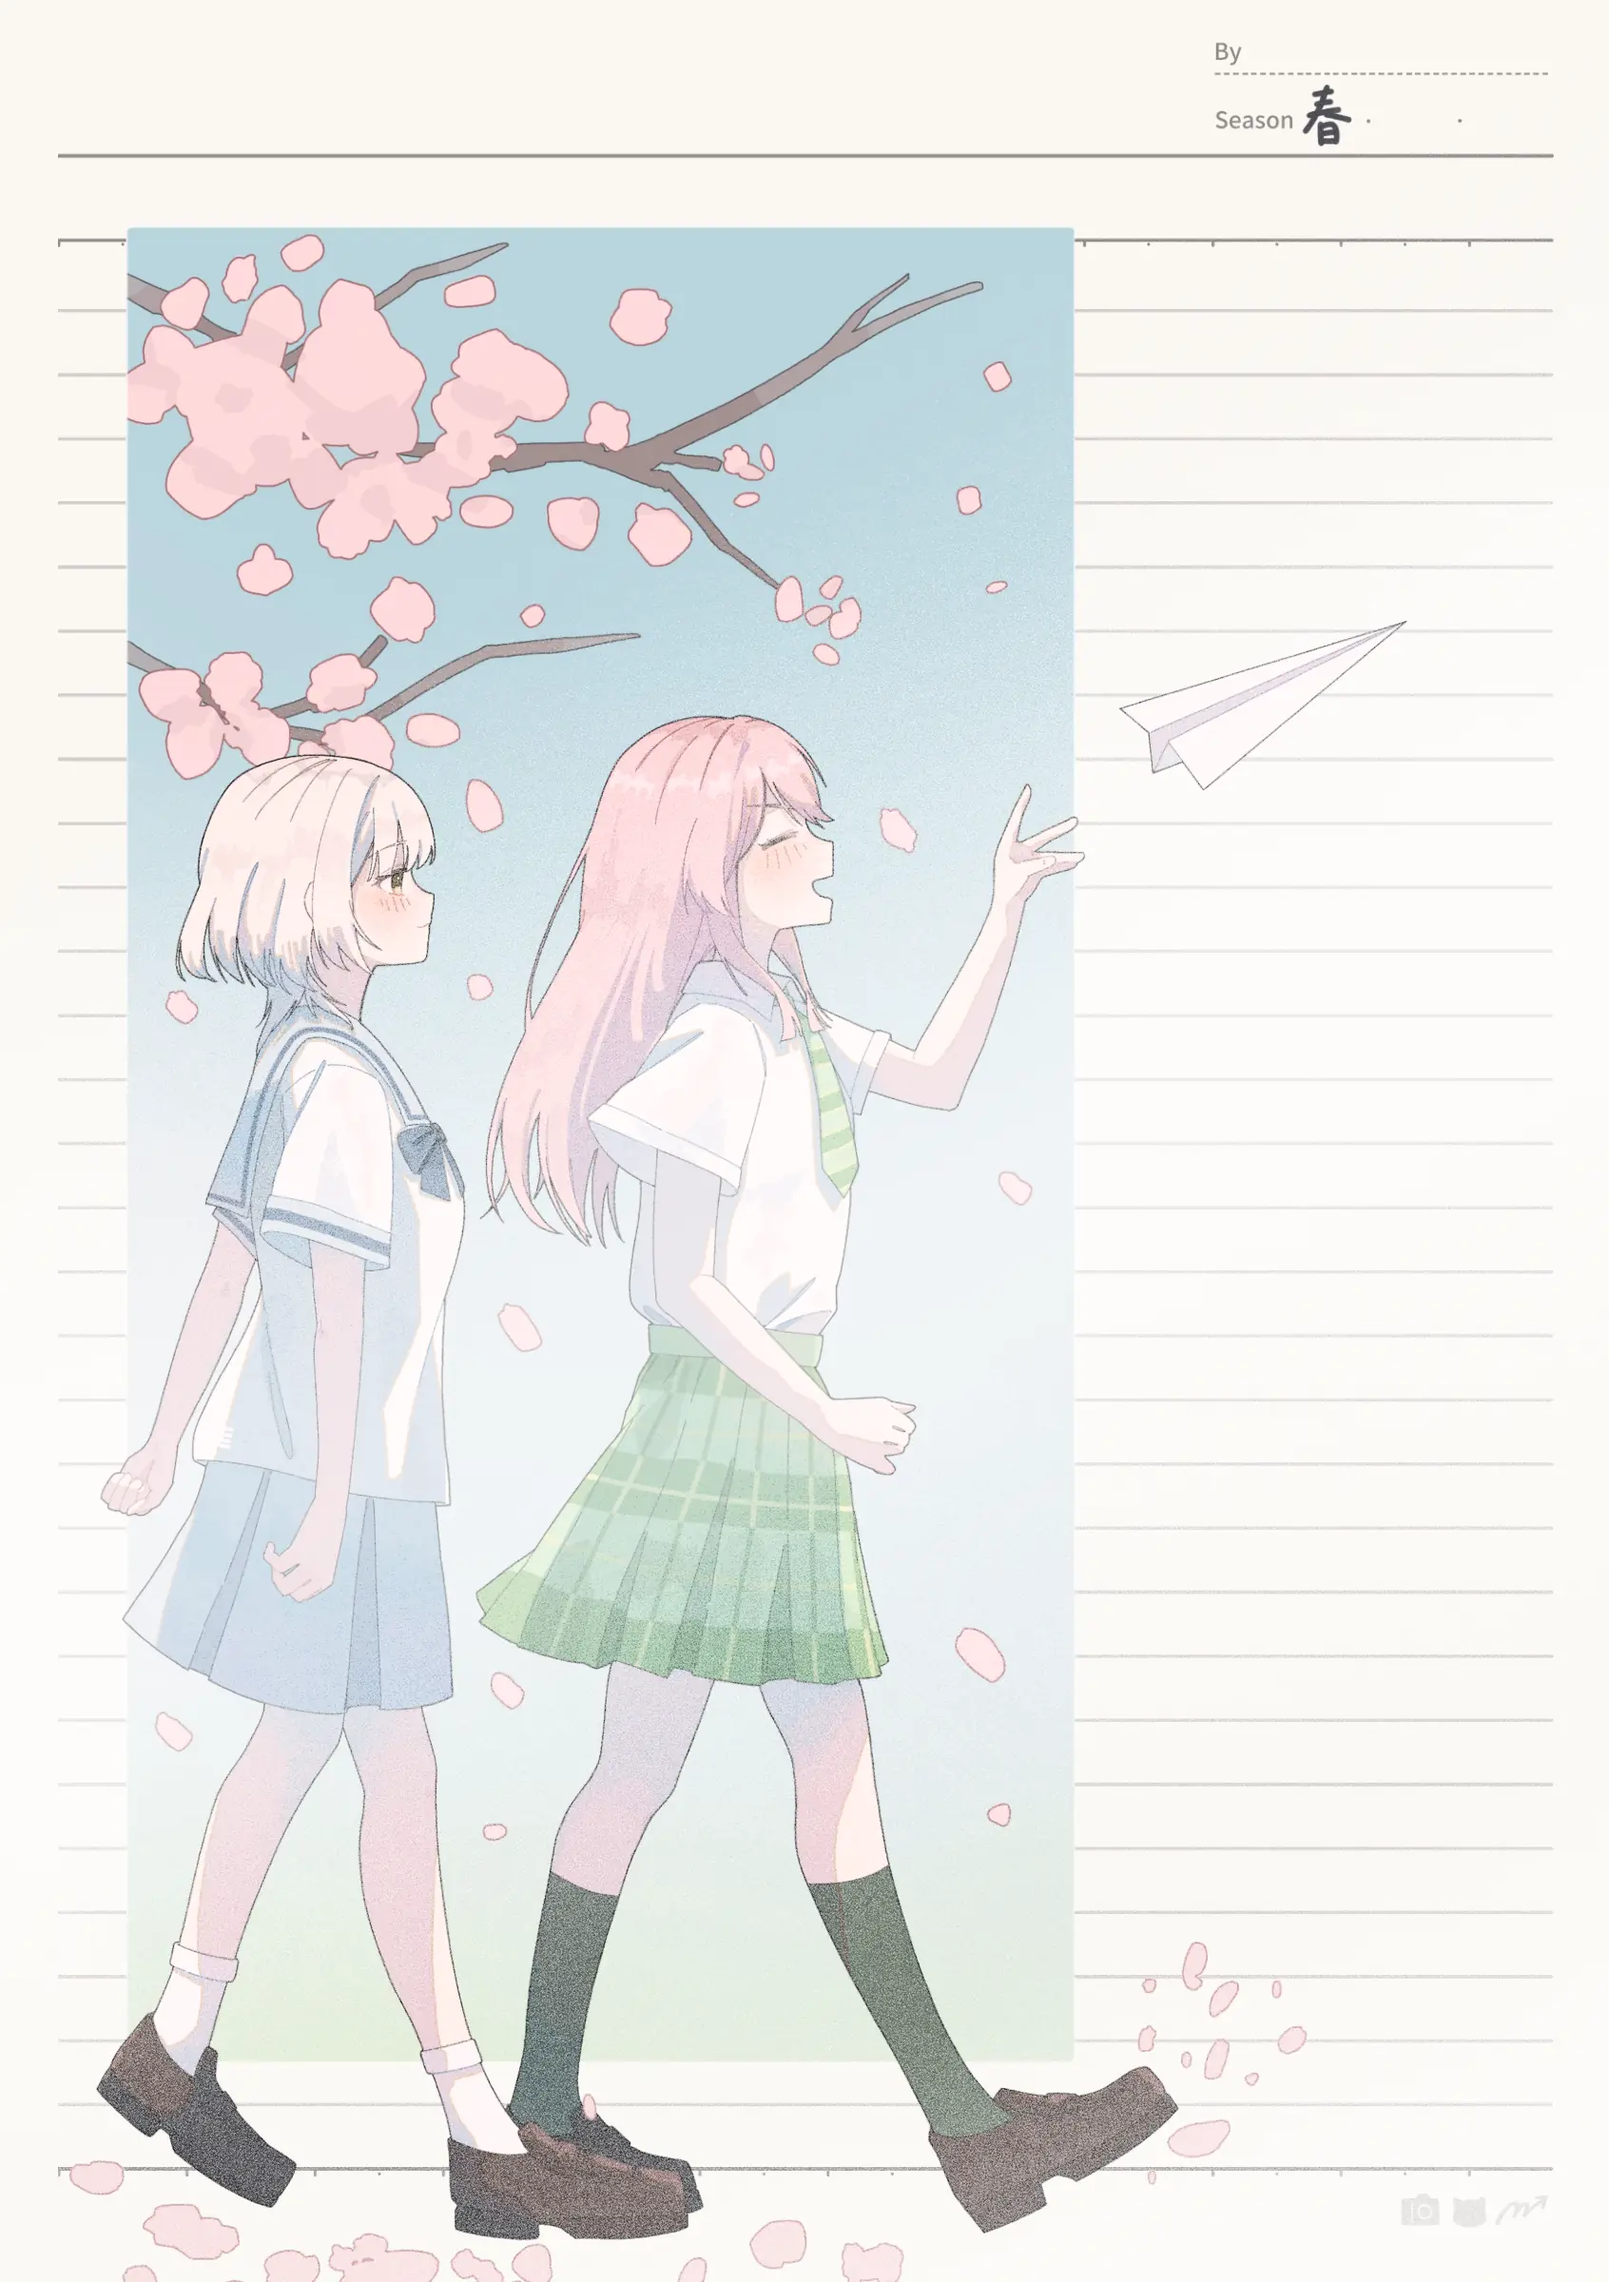
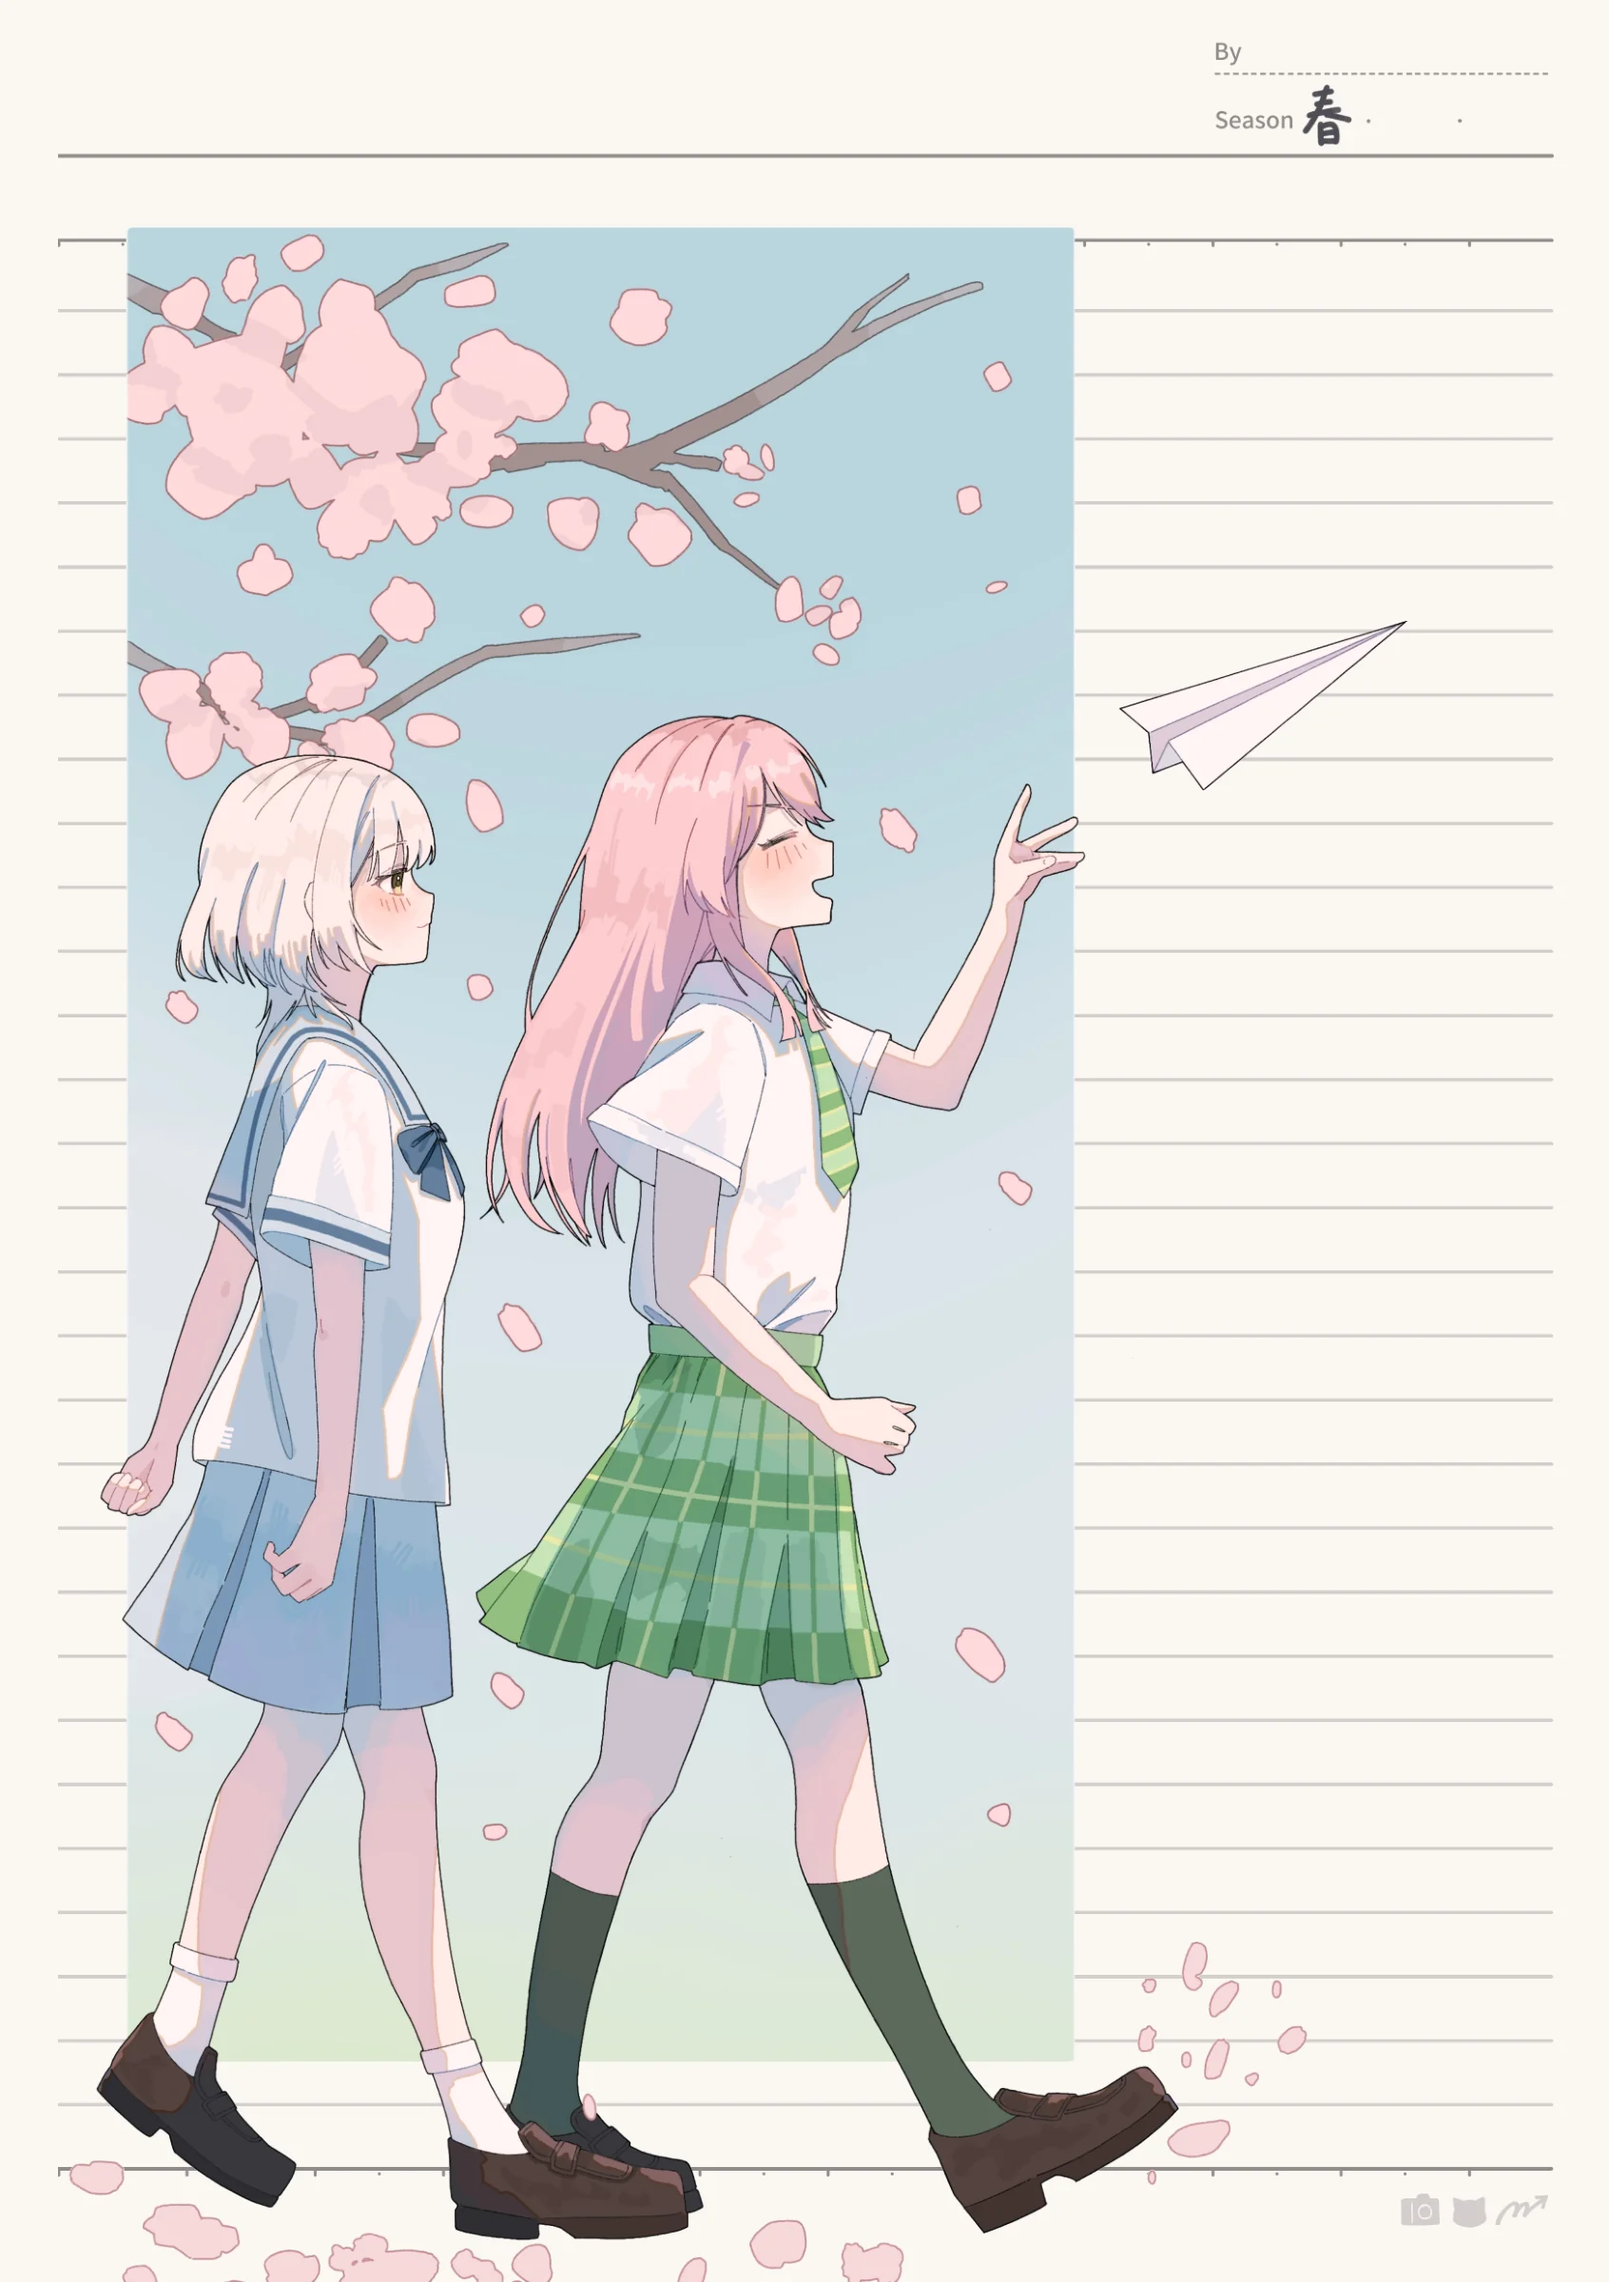
Remove watermark from p4-6; p24 back to watermark instead of blank

diff --git a/convert.py b/convert.py
@@ -21,9 +21,9 @@ WM_QUALITY = 75      # 有浮水印的頁面畫質（浮水印的顆粒很佔空
 
 HERE = Path(__file__).parent
 WATERMARK = HERE / '浮水印.png'
-WATERMARK_PAGES = range(4, 25)   # 第 4～24 頁蓋浮水印（PDF 頁碼，含頭尾）
-WATERMARK_OPACITY = {4: 0.6, 5: 0.6, 6: 0.6, 18: 0.6}   # 個別頁面的浮水印透明度（沒列出的是 100%）
-WHITE_PAGES = set(range(15, 26))   # 第 15～25 頁蓋成白頁（敬請期待）
+WATERMARK_PAGES = range(7, 25)   # 第 7～24 頁蓋浮水印（PDF 頁碼，含頭尾）
+WATERMARK_OPACITY = {}   # 個別頁面的浮水印透明度（沒列出的是 100%）
+WHITE_PAGES = set(range(15, 26)) - {24}   # 第 15～25 頁蓋成白頁（敬請期待），第 24 頁除外
 WHITE_OPACITY = 0.88                # 白底的不透明度（1 = 完全蓋住，0.88 = 隱約透出原圖）
 WHITE_PAGE_IMAGE = HERE / '期待.png'   # 全白頁中間放的圖（和頁面同比例的透明畫布，會自動置中）
 WHITE_PAGE_IMAGE_SCALE = 0.7          # 圖的大小（1 = 原圖大小）
